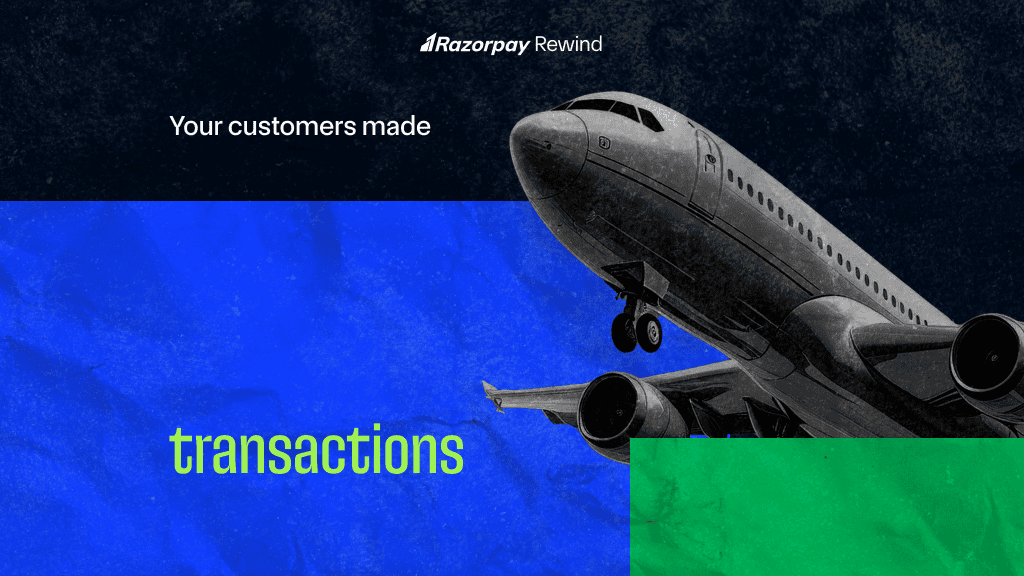
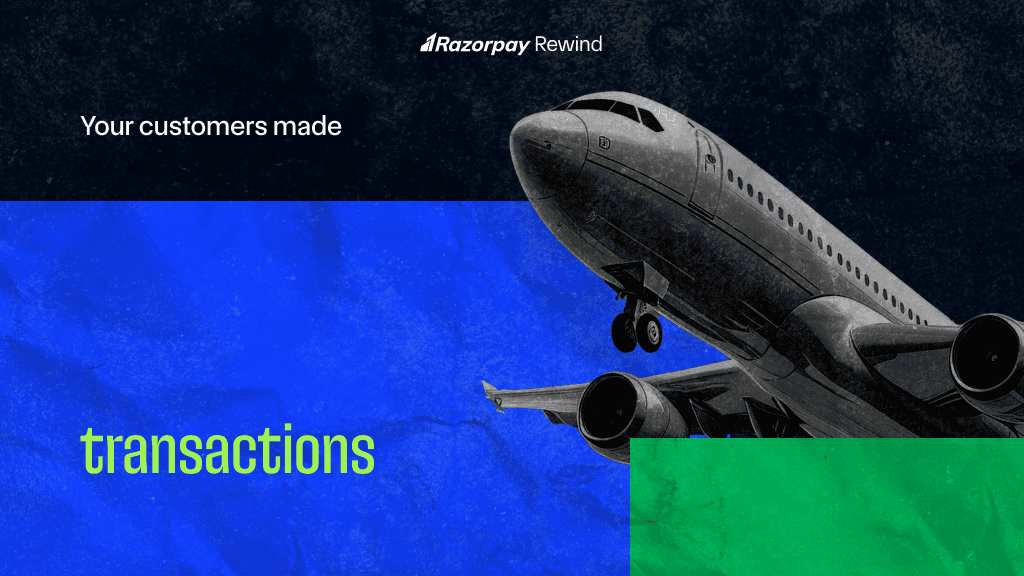
[PID-2207] :- Razorpay rewind alignment issue done (#17059)
* updated transaction images for alignment

* updated share text

Changed region(s): [[0.0625, 0.7188, 0.4688, 0.8438], [0.0625, 0.1875, 0.4375, 0.25]]

diff --git a/web/js/merchant/components/RazorpayRewind/utils.tsx b/web/js/merchant/components/RazorpayRewind/utils.tsx
@@ -31,7 +31,7 @@ import { captureImage } from './imageUtils';
 import { RewindFonts } from './RazorpayRewind';
 
 export const postContent =
-  'Just relived my year in payments. Spoiler alert: we crushed it in FY2024! #RazorpayRewind2025';
+  'Just relived my year in payments. Spoiler alert: we crushed it in the last financial year! #RazorpayRewind2025';
 
 export const trackPaymentsRecapEvent = ({
   objectName,
